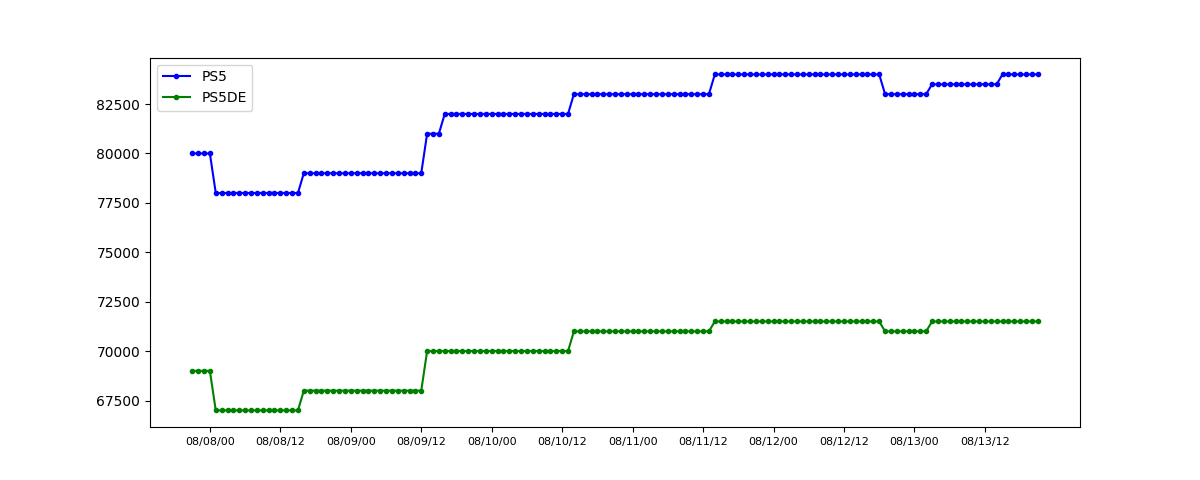
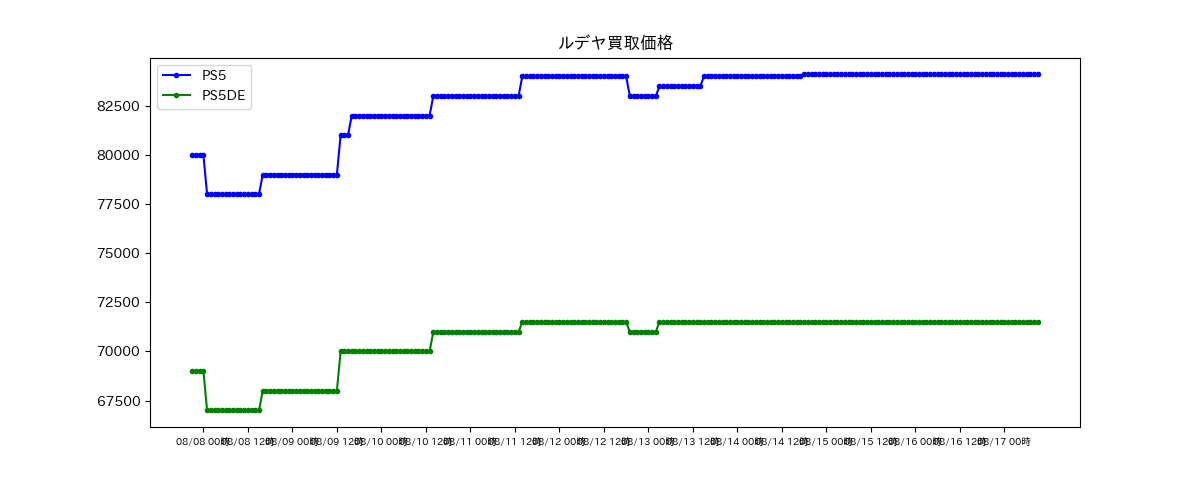
2021年8月17日のコミット（目立った更新はない）

diff --git a/game_data_plot.py b/game_data_plot.py
@@ -1,9 +1,11 @@
 #!/home/l_vektor_m/venv3.8/bin/python
 # coding: utf-8
 
+import matplotlib
 import matplotlib.pyplot as plot
 import pandas
 
+#matplotlib.rc('font', family='Noto Sans CJK JP')
 # csvファイルをデータフレームに格納する
 enc = 'utf-8-sig'
 csv_title_game_price_value = 'ルデヤでの各ゲーム機の買取値段推移（値のみ）.csv'
@@ -19,7 +21,7 @@ plot.plot(data_frame['date']+data_frame['hour'], data_frame['PlayStation5 DE'], 
 # 日付（x軸）の目盛り表示を見やすくする
 xlabel_list = (data_frame['date']+data_frame['hour']).to_list()
 # 日本語を抜いて簡略表示
-plot_xlabel_list = [l.replace('2021年', '').replace('月', '/').replace('日', '/').strip('時') for l in xlabel_list]
+plot_xlabel_list = [l.replace('2021年', '').replace('月', '/').replace('日', ' ') for l in xlabel_list]
 # 12時間毎に表示
 print(len(plot_xlabel_list), plot_xlabel_list)
 days = len(plot_xlabel_list)//12
@@ -28,17 +30,19 @@ days_plot = [d*12+3 for d in range(days)]
 print(days_plot)
 label_list = [plot_xlabel_list[days_plot[ll]] for ll in range(days) if days_plot[ll] < len(plot_xlabel_list)]
 print(label_list)
-plot.xticks(days_plot, label_list, fontsize=8)
+FONT_SIZE=7
+plot.xticks(days_plot, label_list, fontsize=FONT_SIZE)
 plot.legend()
 FIG_W = 12
 fig.set_figwidth(FIG_W)
 
+plot.title('ルデヤ買取価格')
 plot.savefig('rudeya_PS5BR-PS5DE.png')
 plot.close()
 
 fig = plot.figure()
 plot.plot(data_frame['date']+data_frame['hour'], data_frame['PlayStation5'], '.-b', label='PS5')
-plot.xticks(days_plot, label_list, fontsize=8)
+plot.xticks(days_plot, label_list, fontsize=FONT_SIZE)
 plot.legend()
 fig.set_figwidth(FIG_W)
 plot.savefig('rudeya_PS5BR.png')
@@ -46,7 +50,7 @@ plot.close()
 
 fig = plot.figure()
 plot.plot(data_frame['date']+data_frame['hour'], data_frame['PlayStation5 DE'], '.-g', label='PS5DE')
-plot.xticks(days_plot, label_list, fontsize=8)
+plot.xticks(days_plot, label_list, fontsize=FONT_SIZE)
 plot.legend()
 fig.set_figwidth(FIG_W)
 plot.savefig('rudeya_PS5DE.png')
@@ -54,7 +58,7 @@ plot.close()
 
 fig = plot.figure()
 plot.plot(data_frame['date']+data_frame['hour'], data_frame['Switchグレー'], '.-k', label='Switch G')
-plot.xticks(days_plot, label_list, fontsize=8)
+plot.xticks(days_plot, label_list, fontsize=FONT_SIZE)
 plot.legend()
 fig.set_figwidth(FIG_W)
 plot.savefig('rudeya_Switch_G.png')
@@ -62,7 +66,7 @@ plot.close()
 
 fig = plot.figure()
 plot.plot(data_frame['date']+data_frame['hour'], data_frame['Switchネオン'], '.-r', label='Switch N')
-plot.xticks(days_plot, label_list, fontsize=8)
+plot.xticks(days_plot, label_list, fontsize=FONT_SIZE)
 plot.legend()
 fig.set_figwidth(FIG_W)
 plot.savefig('rudeya_Switch_N.png')
@@ -71,7 +75,7 @@ plot.close()
 fig = plot.figure()
 plot.plot(data_frame['date']+data_frame['hour'], data_frame['Switchグレー'], '.-k', label='Switch G')
 plot.plot(data_frame['date']+data_frame['hour'], data_frame['Switchネオン'], '.-r', label='Switch N')
-plot.xticks(days_plot, label_list, fontsize=8)
+plot.xticks(days_plot, label_list, fontsize=FONT_SIZE)
 plot.legend()
 fig.set_figwidth(FIG_W)
 plot.savefig('rudeya_Switch.png')
